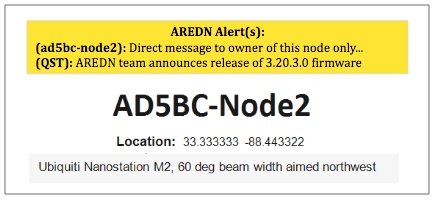
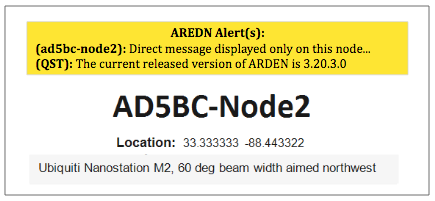
Clarify non-private messaging
Clarify that directed messages are not guaranteed to be private since 
anyone can view the arednmesh message repository.

diff --git a/arednGettingStarted/node_status.rst b/arednGettingStarted/node_status.rst
@@ -48,12 +48,11 @@ The :abbr:`OLSR (Optimized Link State Routing protocol)` **Entries** show the to
 Node and Broadcast Messages
 ---------------------------
 
-The AREDN |trade| development team now has the ability to post messages which Internet-connected nodes will automatically retrieve once every 12 hours. There are two types of messages: QST/broadcast messages intended for all nodes, and directed messages which are only retrieved by individual nodes. Messages are displayed at the top of the *Node Status* page above the node name.
+The AREDN |trade| development team now has the ability to post messages which Internet-connected nodes will automatically retrieve once every 12 hours. There are two types of messages: QST/broadcast messages intended for all nodes, and directed messages which are only retrieved by individual nodes. Messages are displayed at the top of the *Node Status* page above the node name. Be aware that there is no guarantee of privacy for these messages, since anyone can view the message repository online.
 
 .. image:: _images/node-messages.png
    :alt: Node Message Display
    :align: center
-
 
 Signal Charts
 -------------
